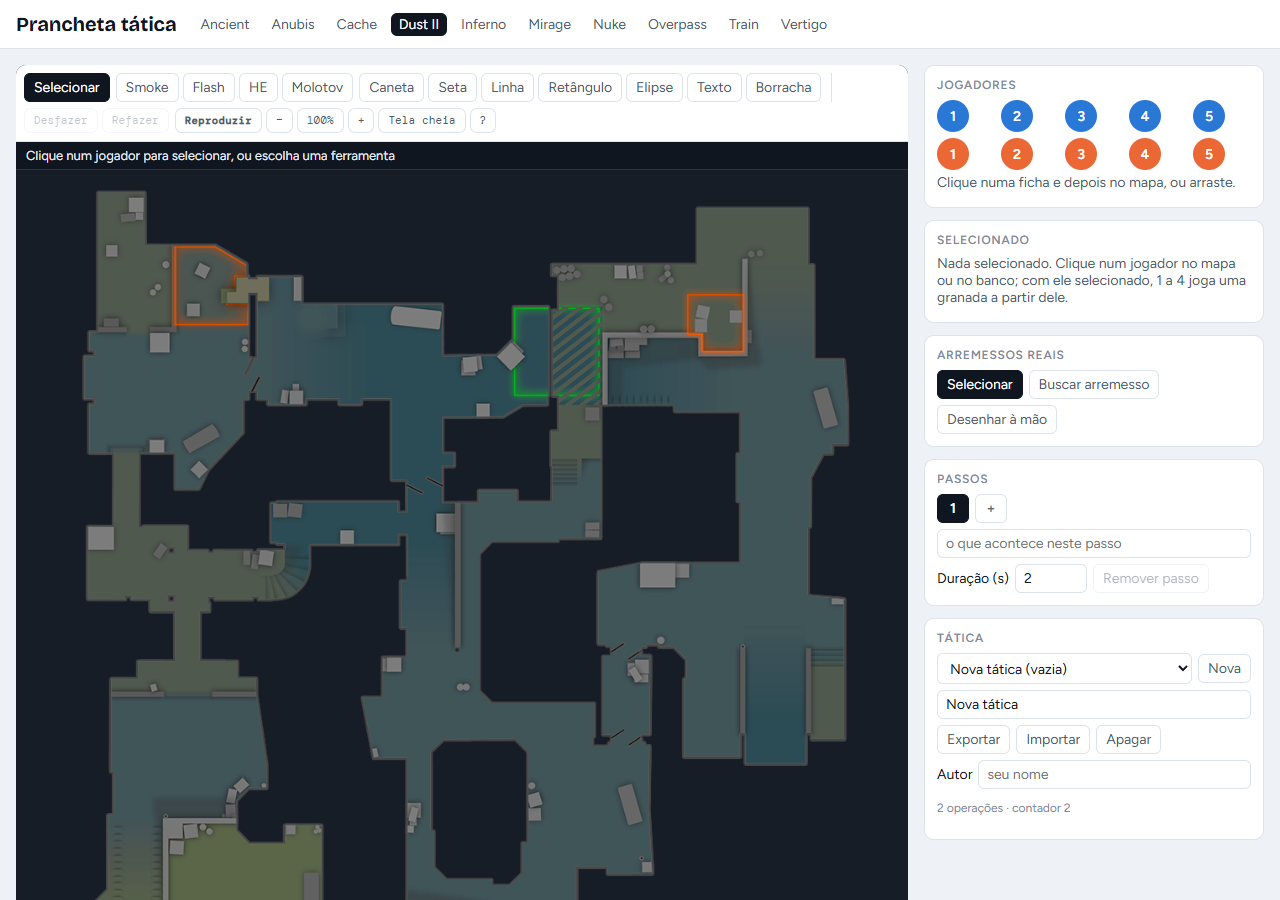
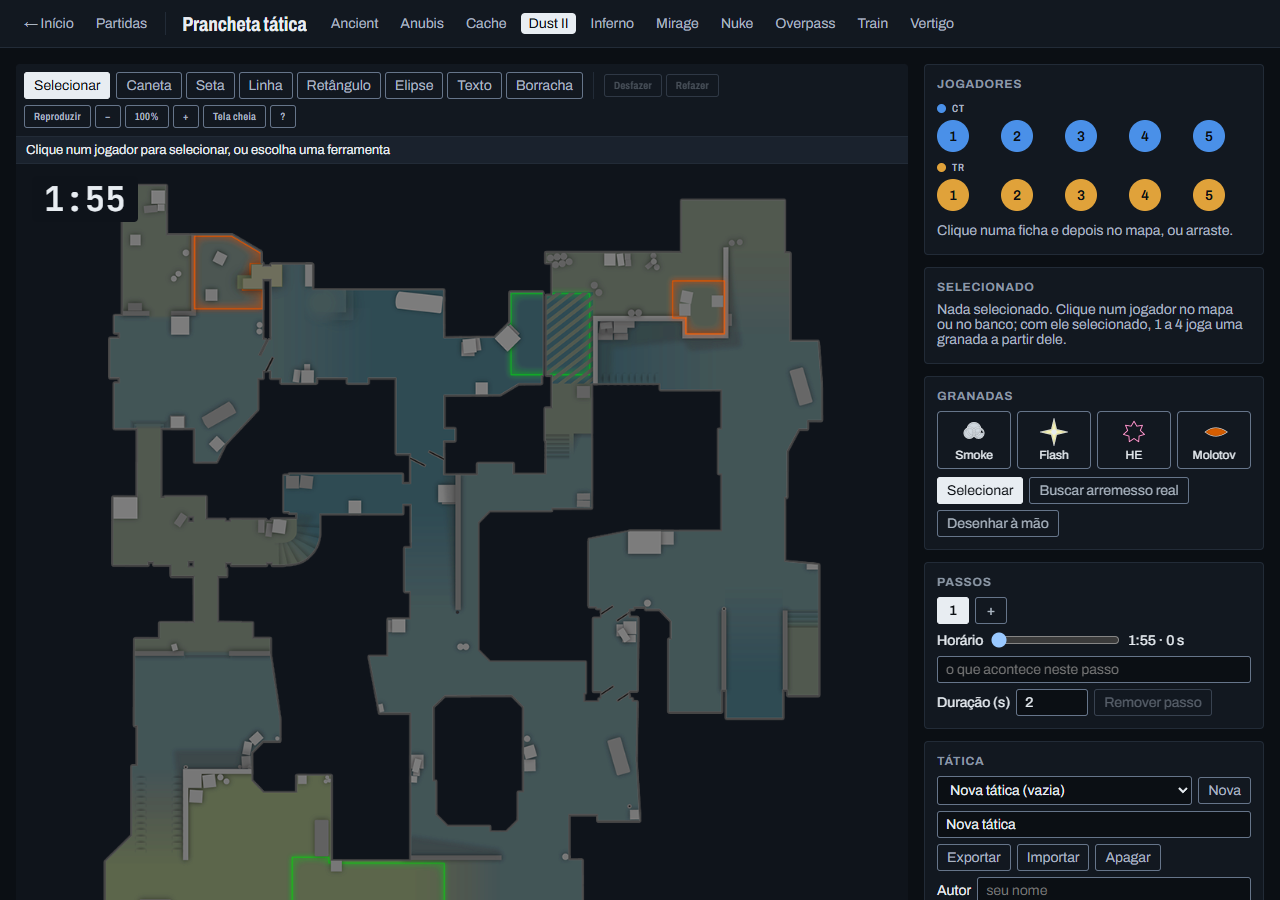
B3.3 capturas do README regeradas no tema novo (o script abre #replay: o Resumo virou a aba inicial)

diff --git a/scripts/capturas_readme.py b/scripts/capturas_readme.py
@@ -54,7 +54,8 @@ def gera() -> list[Path]:
         ctx = nav.new_context(viewport={"width": LARGURA, "height": ALTURA}, device_scale_factor=1)
         ctx.add_init_script("try { localStorage.setItem('replay:direcao', '1'); } catch (e) {}")
         pg = ctx.new_page()
-        pg.goto(partida.as_uri())
+        # o Resumo é a aba inicial desde a design-B1; o hash abre o Replay direto
+        pg.goto(partida.as_uri() + "#replay")
         pg.wait_for_load_state("networkidle")
         pg.evaluate("() => document.fonts.ready")
         # replay: o round fixo, a 45% dele
